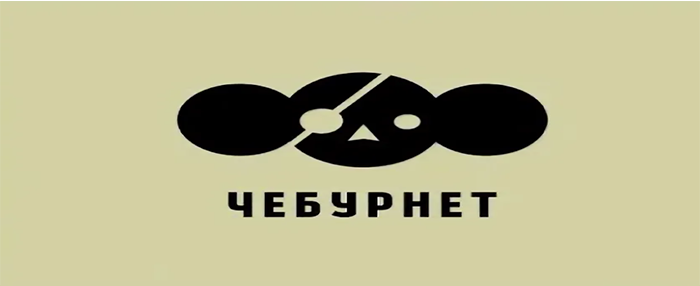
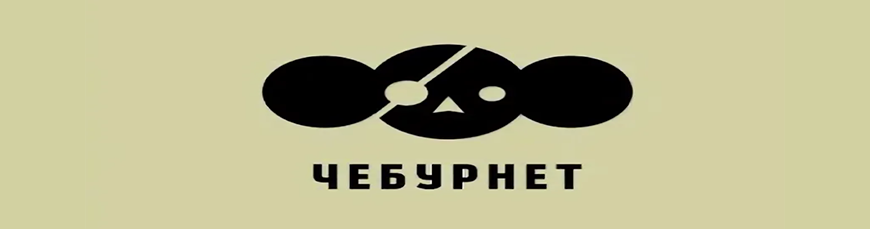
Бу.\\ээээ

Changed region(s): [[0.24, 0.1834, 0.78, 0.6114], [0.3, 0.6419, 0.72, 0.8559], [0.0, 0.0, 1.0, 0.0306]]

diff --git a/tgui/packages/tgui/interfaces/WindowsXP/Apps/Chebur.js b/tgui/packages/tgui/interfaces/WindowsXP/Apps/Chebur.js
@@ -1,20 +1,22 @@
 import { useLocalState } from '../../../backend';
 import chebur from '../../../assets/WindowsXP/chebur.png';
-import { Button, Input } from '../../../components';
+import { Button, TextArea} from '../../../components';
 
 export const Cheburnet = (props, context) => {
   const { app, act } = props;
   const [poiski, setMessage] = useLocalState(context, 'cheburnet_poiski', '');
   return (
     <div className="news__screen">
-      <img width="120px" src={chebur} />
+      <img width="200px" src={chebur} />
       <div className="news__text">{app.shrek}</div>
       {app.can_sond === 1 && (
         <div className="news__actions">
-          <Input
-            value={poiski}
-            onChange={(e, value) => setMessage(value)}
-            placeholder="Введите запрос..."
+          <TextArea
+            placeholder={'Введите запрос'}
+            onChange={(e, value) => {
+              setMessage(value);
+            }}
+            className="chat-input"
           />
           <Button
             icon="paper-plane"
